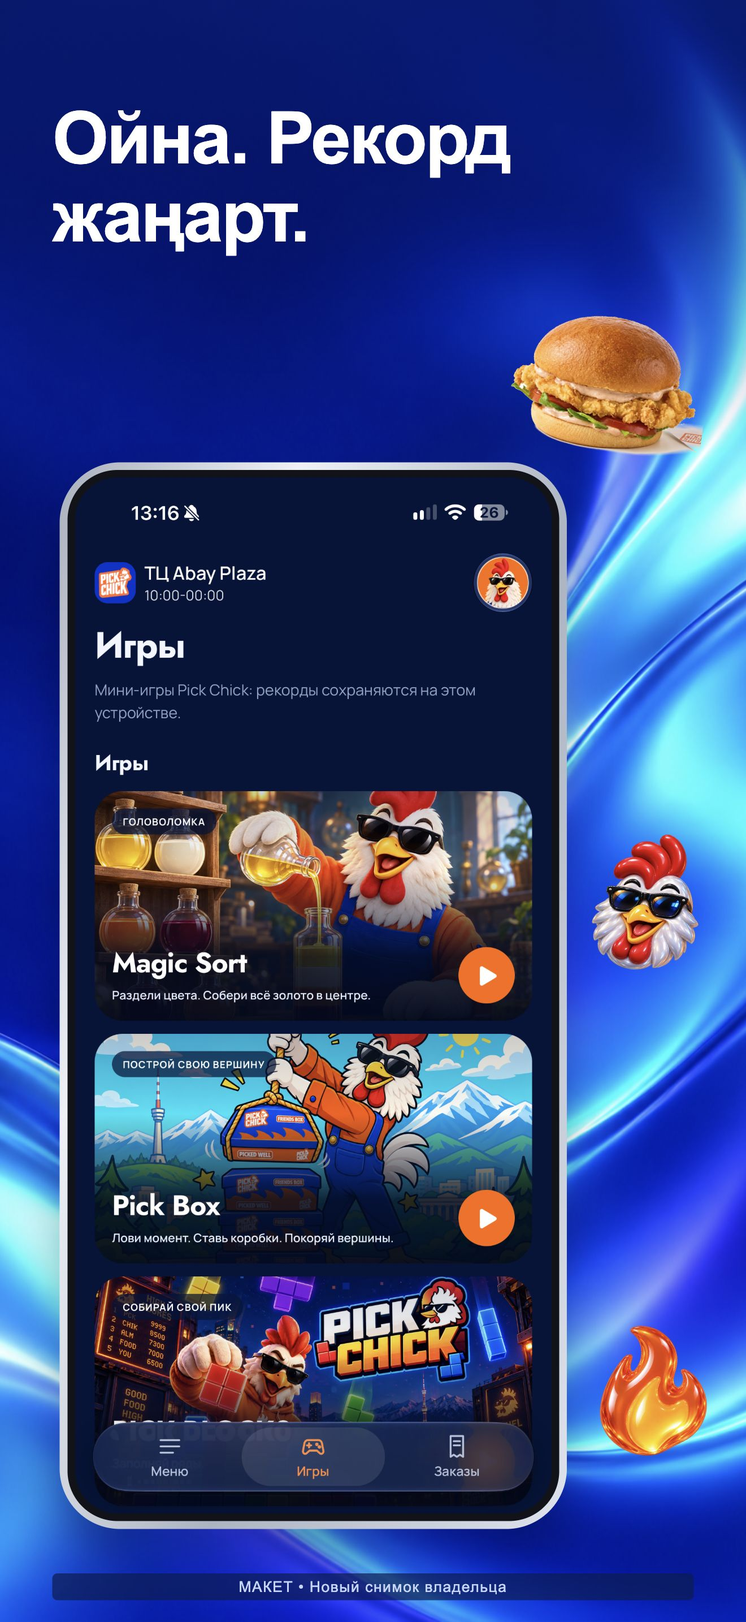
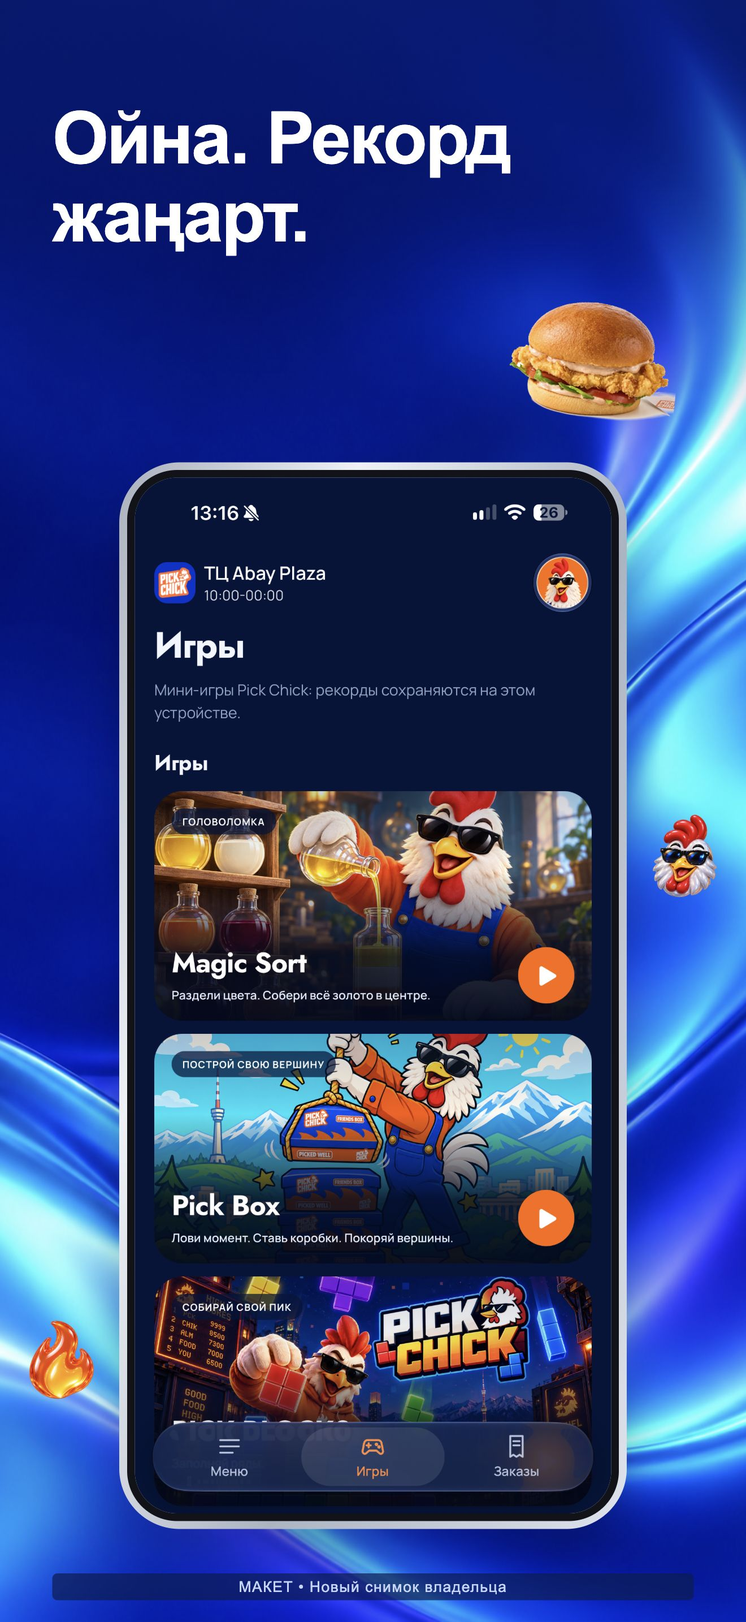
docs: center phones and refresh order screenshot design

diff --git a/docs/operations/appstore-refresh-1117/selected-four-1118/index.html b/docs/operations/appstore-refresh-1117/selected-four-1118/index.html
@@ -160,8 +160,8 @@
       .motif.flame {
         background-image: url('../screenshots-preview-1118/art/sticker-flame-hd.png');
       }
-      .motif.food-fingers {
-        background-image: url('../screenshots-preview-1118/art/food-fingers.png');
+      .motif.friends-box {
+        background-image: url('art/friends-box.png');
         background-position: center;
         background-size: contain;
       }
@@ -304,7 +304,7 @@
           <h1>Pick Chick. Четыре скриншота</h1>
           <p>
             Главное меню, комбо для двоих, игры и статус заказа. Первые три - ваши новые снимки,
-            четвёртый - прежний экран заказа. Предпросмотр перед загрузкой в App Store.
+            четвёртый - дизайн статуса из приложения. Предпросмотр перед загрузкой в App Store.
           </p>
         </div>
         <nav><a href="?page=1">1-2</a><a href="?page=2">3-4</a><a href="?">Все</a></nav>

diff --git a/docs/operations/appstore-refresh-1117/screenshots-plan.md b/docs/operations/appstore-refresh-1117/screenshots-plan.md
@@ -1,15 +1,15 @@
 # Скриншоты Pick Chick
 
-Статус на 18.11: владелец сократил набор до [четырёх макетов](selected-four-1118/README.md). Первые три - новые снимки владельца, четвёртый - прежний архивный статус заказа. Сохранены подходящие подписи из утверждённого второго набора. Файлов для загрузки в Apple пока нет.
+Статус на 18.11: владелец сократил набор до [четырёх макетов](selected-four-1118/README.md). Первые три - новые снимки владельца, четвёртый - веб-пример актуального дизайна статуса. Сохранены подходящие подписи из утверждённого второго набора. Файлов для загрузки в Apple пока нет.
 
-Актуальное направление после правки владельца: насыщенный переливающийся синий фон с бирюзовыми и фиолетовыми отражениями. По бокам и углам телефона - разные мотивы Pick Chick (Алекс, пламя, фингерсы, стакан, сердце, бургер), по три на кадр, с разной высотой, размером и поворотом. Ряд наверху отклонён владельцем. Все стикеры видны целиком, находятся выше телефона по слою и не скрывают текст или действия интерфейса. Интерфейс и исходные изображения еды не перерисованы. Телефон 68% ширины, верхняя граница на 28,5% высоты, отступ слева 8% или 24%; заголовок остаётся крупным и читаемым.
+Актуальное направление после правки владельца: насыщенный переливающийся синий фон с бирюзовыми и фиолетовыми отражениями. По бокам и углам телефона - разные мотивы Pick Chick (Алекс, пламя, фирменная коробка, сердце, бургер), по три на кадр, с разной высотой, размером и поворотом. Ряд наверху отклонён владельцем. Все стикеры видны целиком, находятся выше телефона по слою и не скрывают текст или действия интерфейса. Интерфейс и исходные изображения еды не перерисованы. Телефон 68% ширины, верхняя граница на 28,5% высоты, отступ слева и справа 16%; заголовок остаётся крупным и читаемым.
 
-| Порядок | Казахская подпись        | Смысл по-русски          | Финальный экран       |
-| ------- | ------------------------ | ------------------------ | --------------------- |
-| 1       | Сүйікті дәмің осында     | Любимый вкус здесь       | Главное меню          |
-| 2       | Достармен бірге дәмдірек | С друзьями вкуснее       | Микс Дуо              |
-| 3       | Ойна. Рекорд жаңарт.     | Играй. Ставь рекорды.    | Страница игр          |
-| 4       | Тапсырысың көз алдыңда   | Твой заказ перед глазами | Прежний статус заказа |
+| Порядок | Казахская подпись        | Смысл по-русски          | Финальный экран           |
+| ------- | ------------------------ | ------------------------ | ------------------------- |
+| 1       | Сүйікті дәмің осында     | Любимый вкус здесь       | Главное меню              |
+| 2       | Достармен бірге дәмдірек | С друзьями вкуснее       | Микс Дуо                  |
+| 3       | Ойна. Рекорд жаңарт.     | Играй. Ставь рекорды.    | Страница игр              |
+| 4       | Тапсырысың көз алдыңда   | Твой заказ перед глазами | Актуальный дизайн статуса |
 
 Подписи утверждены владельцем без изменений. Композиция ещё проходит согласование. Для заголовков макета используется Arial Bold целыми фразами: встроенные Jost и Manrope не содержат всех казахских глифов.
 
@@ -25,7 +25,7 @@
 ## Компоновка
 
 - Первичный размер 1320 x 2868. Дополнительный 1206 x 2622 готовить только для соответствующей группы устройств в актуальном менеджере материалов.
-- Заголовок занимает верхние примерно 16% высоты. Телефон начинается на 28,5% высоты, ширина 68% полотна, попеременно смещён влево и вправо. Стикеры распределены свободно вокруг него; точный размер телефона определяется пропорциями исходного снимка без растяжения.
+- Заголовок занимает верхние примерно 16% высоты. Телефон начинается на 28,5% высоты, ширина 68% полотна, отцентрирован по горизонтали. Стикеры распределены свободно вокруг него; точный размер телефона определяется пропорциями исходного снимка без растяжения.
 - Проверить казахские Ә, Ғ, Қ, Ң, Ө, Ұ, Ү, Һ, І в используемом шрифте. Не допускать случайного смешения гарнитур из-за отсутствующих глифов.
 - Применять фон и рамку только снаружи снимка. Фотографии еды остаются исходными внутри приложения.
 - Просмотреть четыре кадра рядом и первые три в масштабе карточки App Store. Проверить читаемость заголовка и отсутствие обрезанных элементов.

diff --git a/docs/operations/appstore-refresh-1117/selected-four-1118/README.md b/docs/operations/appstore-refresh-1117/selected-four-1118/README.md
@@ -1,6 +1,6 @@
 # Четыре выбранных скриншота Pick Chick
 
-18.11.2026 владелец сократил набор до четырёх кадров. Три новых снимка переданы им в чате, четвёртым взят прежний статус заказа из макетов. Оформление, четыре подходящие утверждённые казахские подписи, переливающийся фон и свободно расположенные стикеры сохранены.
+18.11.2026 владелец сократил набор до четырёх кадров, затем попросил центрировать телефоны, заменить старый статус на дизайн приложения и убрать декоративный фингерс. Все телефоны теперь по одной центральной оси; фингерсы заменены фирменной коробкой FRIENDS BOX. Четвёртым показан встроенный пример актуального экрана готовности с Алексом. Подписи и переливающийся фон сохранены.
 
 | Порядок | Экран         | Подпись                  |
 | ------- | ------------- | ------------------------ |
@@ -11,8 +11,10 @@
 
 Текущий набор содержит только эти четыре кадра. Настройка комбо и корзина больше не входят в него. Прежний набор из шести хранится как история; не смешивать его с текущими файлами.
 
-Исходники сохранены побайтно в `sources/`; SHA-256 и происхождение записаны в [manifest.json](manifest.json). Первые три имеют исходное разрешение 1320 x 2868. Номер сборки на снимках не виден и отдельно не подтверждался. Цены не редактировались и независимо не проверялись. Прежний статус остаётся архивным примером и явно так подписан.
+Первые три исходника сохранены побайтно в `sources/`, размер 1320 x 2868. Номер сборки отдельно не подтверждался. Цены не редактировались и независимо не проверялись. Четвёртый кадр снят с локальной галереи приложения, 440 x 956, без перерисовки интерфейса. OrderStatusScreen и OrderChef не отличаются между исходником 32 (e4eb91b5) и 40 (502743ce); оболочка OrderSheet менялась. Поэтому это пример дизайна, а не нативный снимок сборки 40. Пометка примера внутри приложения сохранена, реальные заказ и оплата не создавались. SHA-256 и точный способ получения записаны в [manifest.json](manifest.json).
+
+Коробка создана встроенным генератором по оригинальным lid.png и front.png из макета владельца. PNG 1254 x 1254 с прозрачностью; это декоративная визуализация упаковки. [Промпт](art/generation-prompt.txt) и [происхождение](art/provenance.json).
 
 Экспорты для просмотра имеют размер 1320 x 2868. Галерея: [четыре кадра](http://127.0.0.1:8877/selected-four-1118/), обзоры [1-2](preview-01-02.jpg) и [3-4](preview-03-04.jpg). Фон и декоративные фигуры используются из соседнего каталога [art](../screenshots-preview-1118/art/); фактическое разрешение источников описано в его манифесте.
 
-Это предпросмотр для владельца. Загрузка в App Store и отправка на проверку этим изменением не выполнялись. Перед загрузкой отдельно принять финальный набор и архивный источник статуса заказа.
+Это предпросмотр для владельца. Загрузка в App Store и отправка на проверку этим изменением не выполнялись. Перед загрузкой принять оформление и заменить пример статуса нативным снимком выбранной сборки.

diff --git a/docs/operations/appstore-refresh-1117/README.md b/docs/operations/appstore-refresh-1117/README.md
@@ -54,10 +54,16 @@
 
 Сохранены соответствующие подписи из утверждённого второго набора, переливающийся фон и свободная композиция. Проверены [обзор 1-2](selected-four-1118/preview-01-02.jpg), [обзор 3-4](selected-four-1118/preview-03-04.jpg), четыре экспорта 1320 x 2868 и 12 стикеров без обрезания или перекрытия заголовков. Источники и ограничения - в [манифесте](selected-four-1118/manifest.json), результаты - в [проверках](selected-four-1118/verification.json).
 
+## Центрирование и актуальный статус 18.11
+
+После следующей правки владельца все четыре телефона отцентрованы: ширина 68%, отступ слева и справа 16%. Декоративные фингерсы заменены визуализацией фирменной коробки FRIENDS BOX по оригинальному макету упаковки. Боковые стикеры уменьшены и расставлены так, чтобы целиком помещаться в кадре и не пересекать телефон или заголовок.
+
+Старый статус заказа заменён полным кадром локальной галереи приложения: «Заказ готов!», Алекс с заказом, этапы, состав и игры. OrderStatusScreen и OrderChef совпадают в исходниках 32 и 40; нативная оболочка OrderSheet менялась, поэтому результат честно обозначен как веб-пример дизайна. Встроенная пометка примера сохранена. Производственные запросы на создание заказа и оплаты не выполнялись. [Обновлённые четыре макета](selected-four-1118/README.md), [проверки](selected-four-1118/verification.json).
+
 ## Осталось
 
 Владелец отклонил прежние подписи и первый короткий вариант. Попросил самостоятельно предложить варианты по исследованию конкурентов. Владелец выбрал и утвердил второй, выразительный набор из captions-1118.md.
 
-Новые четыре макета ждут просмотра владельцем и в Apple не загружались. Номер сборки на трёх новых снимках отдельно не подтверждён, цены сохранены как присланы. Четвёртый кадр по просьбе владельца использует прежний архивный источник 320 x 568; он заметно менее резкий и не является новой съёмкой. Перед загрузкой подтвердить соответствие выбранной сборке и принять финальные изображения без пометок предпросмотра. Казахский не подменяет автоматически локализации RU и en-GB. Синяя обложка уже принята Apple; новая переливающаяся версия пока только в макетах.
+Новые четыре макета ждут просмотра владельцем и в Apple не загружались. Номер сборки на трёх снимках отдельно не подтверждён, цены сохранены как присланы. Четвёртый - полный веб-пример 440 x 956 вместо старого архивного экрана. Перед загрузкой снять этот статус в выбранной нативной сборке и принять финальные изображения без пометок предпросмотра. Казахский не подменяет автоматически локализации RU и en-GB. Синяя обложка уже принята Apple; новая переливающаяся версия пока только в макетах.
 
 Код приложения, сервер, цены, Google Play и опубликованная версия не менялись. Общий статус, roadmap и онлайн-пульт не обновлялись: промежуточная подготовка записана здесь, этап оформления ещё не завершён.
